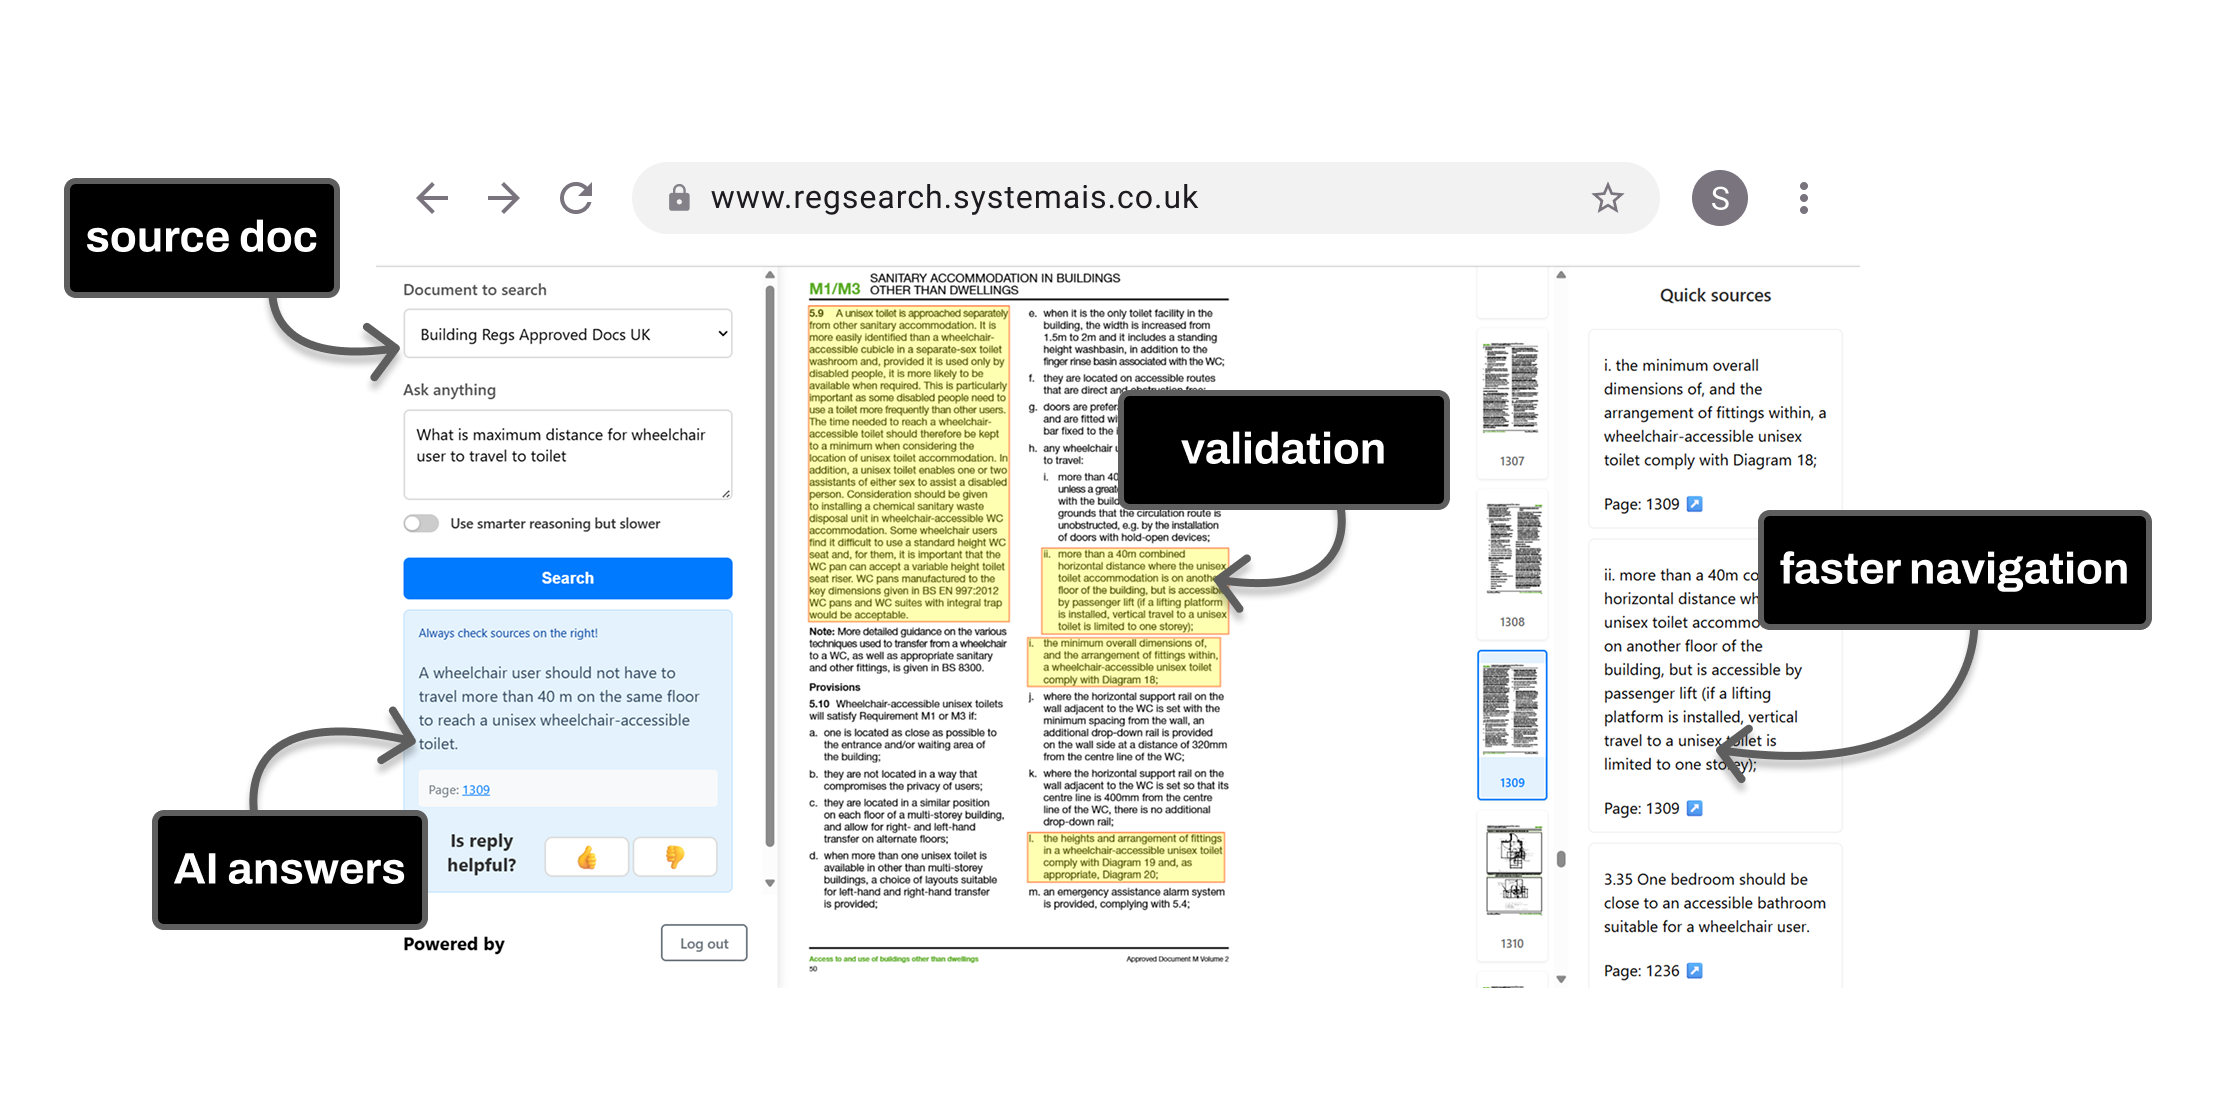
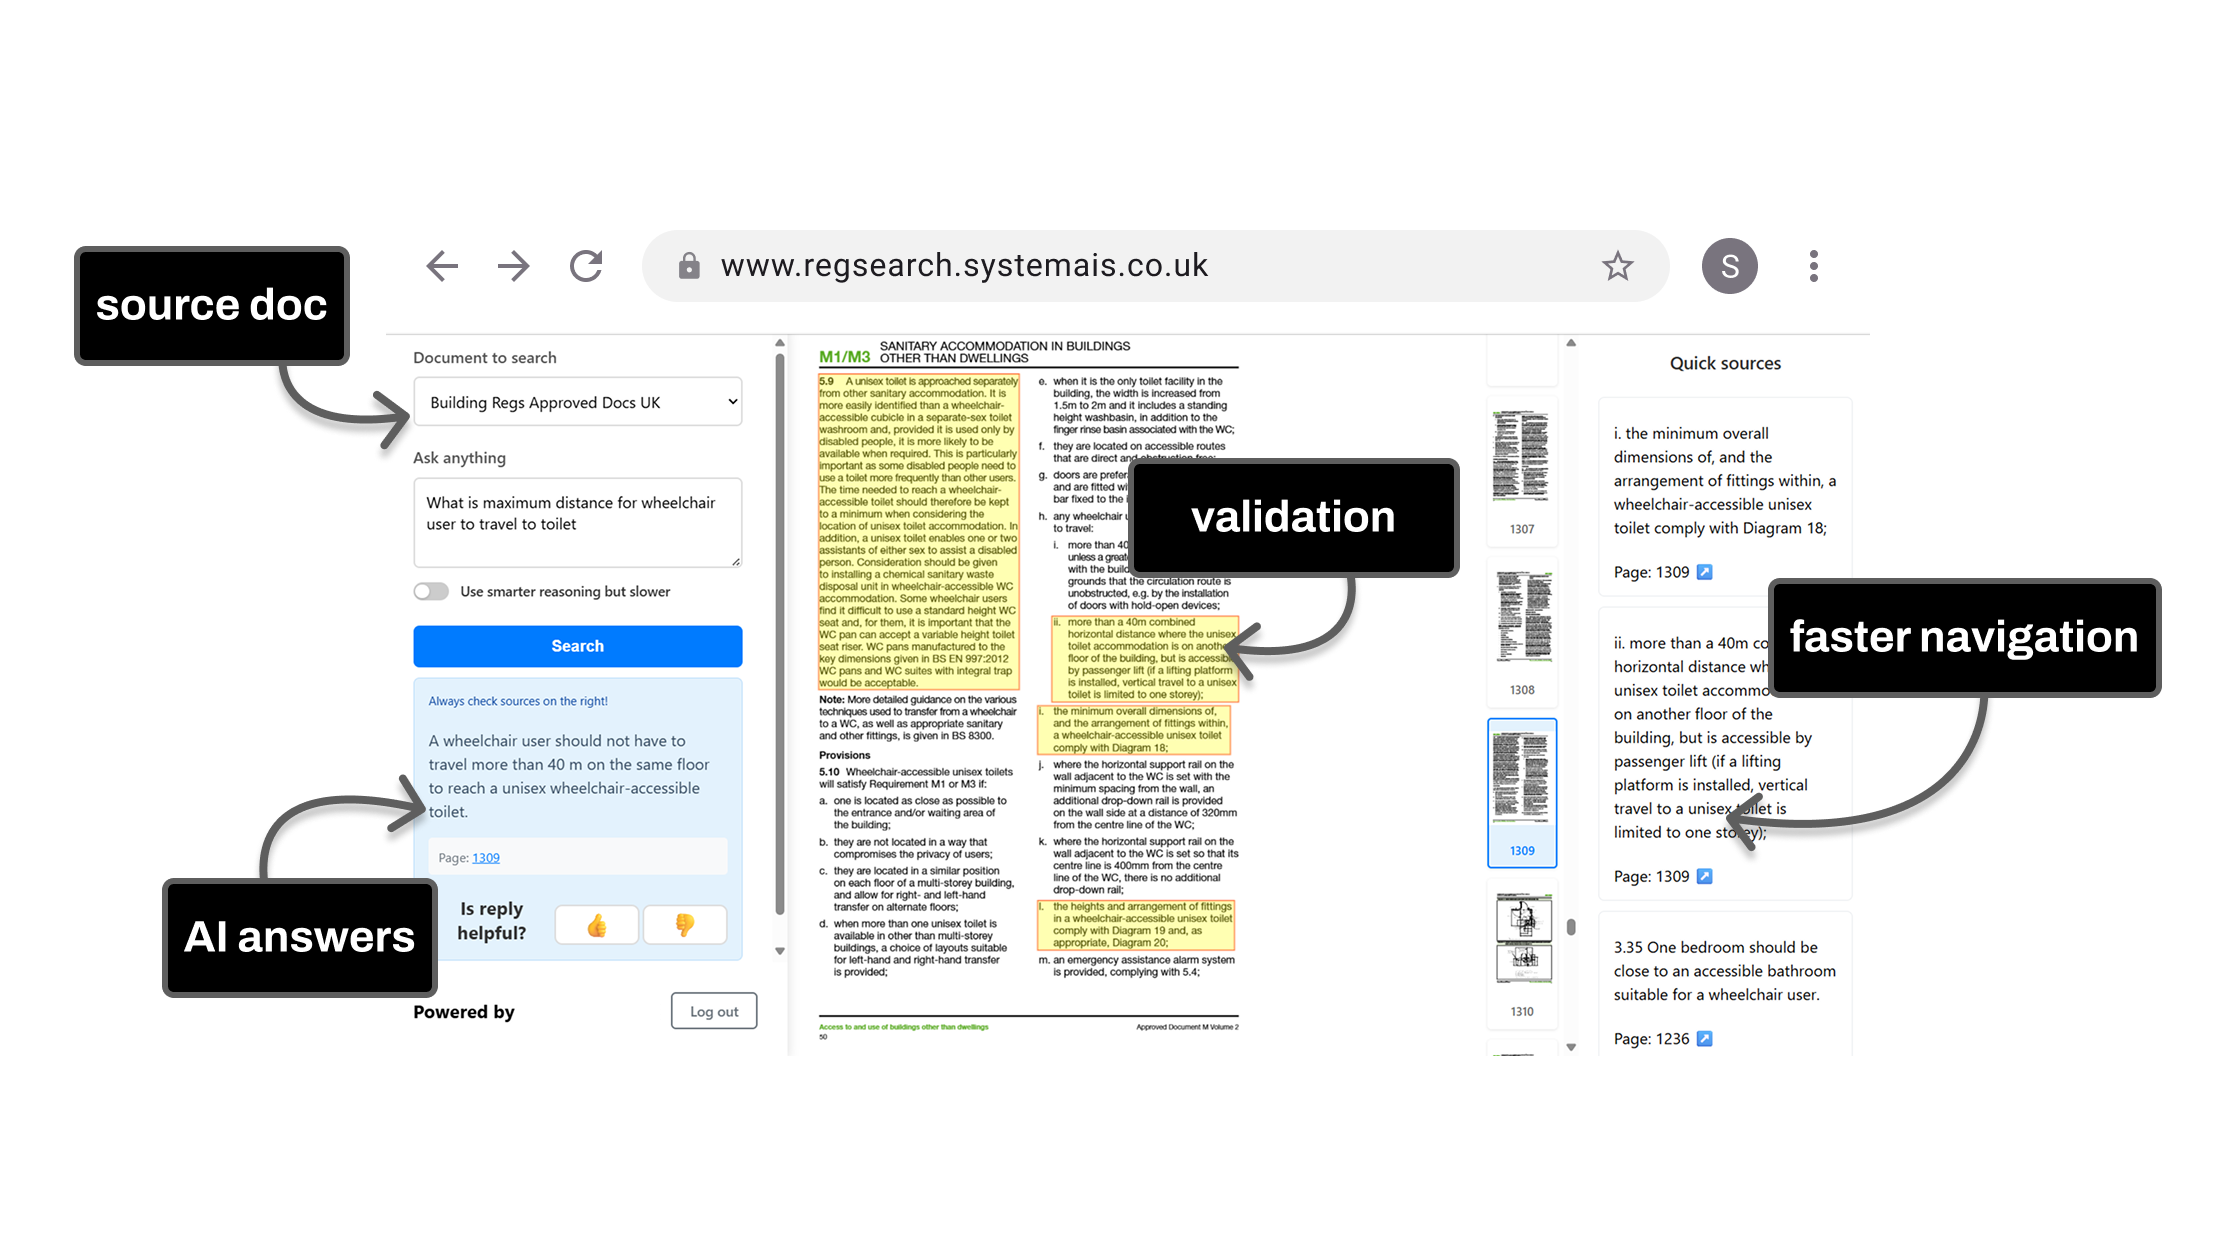
minor button update

Changed region(s): [[0.0309, 0.1562, 0.9884, 0.875], [0.1544, 0.5, 0.1853, 0.5312]]

diff --git a/components/Button.js b/components/Button.js
@@ -8,7 +8,7 @@ const Button = ({
   className = '',
   ...props 
 }) => {
-  const baseClasses = 'inline-flex items-center justify-center font-medium rounded transition-all duration-300 ease-in-out no-underline leading-tight';
+  const baseClasses = 'inline-flex items-center justify-center font-medium rounded-full transition-all duration-300 ease-in-out no-underline leading-none text-center';
   
   const variants = {
     primary: 'bg-[rgb(22,163,74)] hover:bg-[rgb(21,128,61)] text-white',
@@ -17,9 +17,9 @@ const Button = ({
   };
 
   const sizes = {
-    small: 'px-2 text-xs',
-    medium: 'px-3 text-sm',
-    large: 'px-4 text-base'
+    small: 'px-4 py-2 text-xs h-8',
+    medium: 'px-4 py-2 text-sm h-10',
+    large: 'px-4 py-2 text-base h-12',
   };
 
   const variantClasses = variants[variant] || variants.primary;
